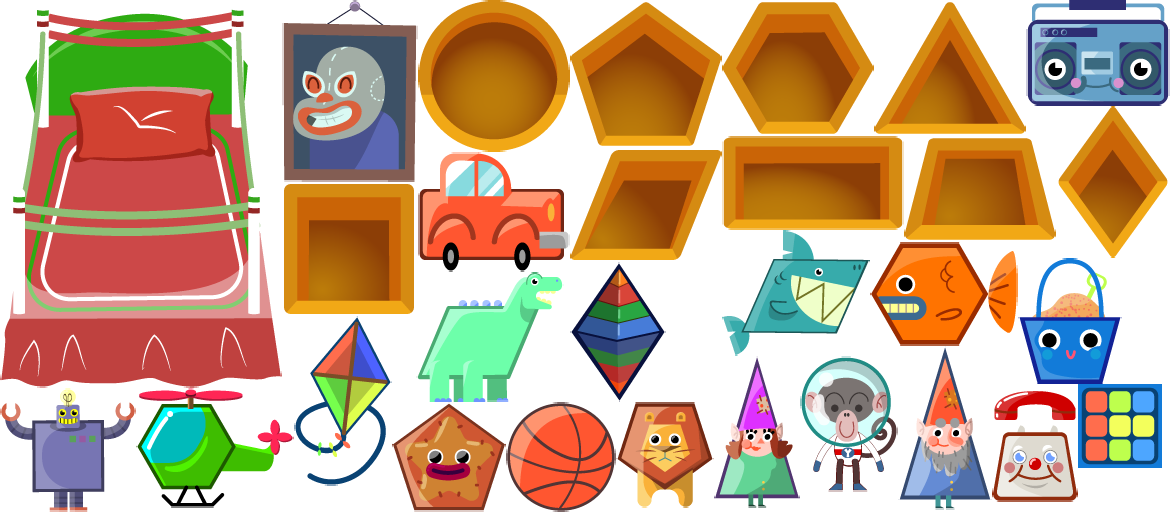
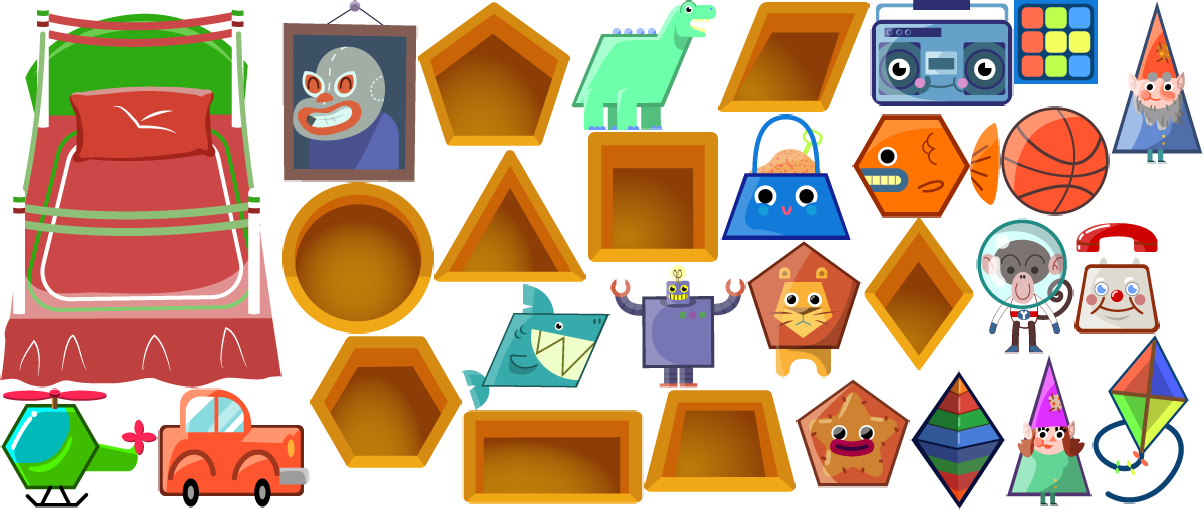
fix clockfix

diff --git a/nonrefactored/ToyFigures/toyfigure/js/scenes/toyfigure.js b/nonrefactored/ToyFigures/toyfigure/js/scenes/toyfigure.js
@@ -357,7 +357,7 @@ toysArray[17].events.onDragStop.add(function(currentSprite){stopDrag(currentSpri
             
             for(var p = 0; p<= 17;p++){
                 toysArray[p].scale.setTo(1,1);
-                toysArray[p].x = getRandomArbitrary(0 + toysArray[p].width/2, game.world.centerX - toysArray[p].width/2);
+                toysArray[p].x = getRandomArbitrary(0 + toysArray[p].width/2, game.world.centerX*1.5 - toysArray[p].width/2);
                 toysArray[p].y = getRandomArbitrary(floor.y , clock.y - toysArray[p].width/2);
                 toysArray[p].positionX = toysArray[p].x;
                 toysArray[p].positionY = toysArray[p].y;

diff --git a/nonrefactored/clockfix/clockfix/js/scenes/clockfix.js b/nonrefactored/clockfix/clockfix/js/scenes/clockfix.js
@@ -70,7 +70,7 @@ var clockfix = function(){
     var hour = getRandomArbitrary(0, 24);
     var minute = getRandomArbitrary(0, 12)*5;
     var morningBackground = true;
-    var angleHour = 0 ;
+    var angleHour = 180 ;
     var angleMinute = 0;
     var answer = 0;
     var dclock;
